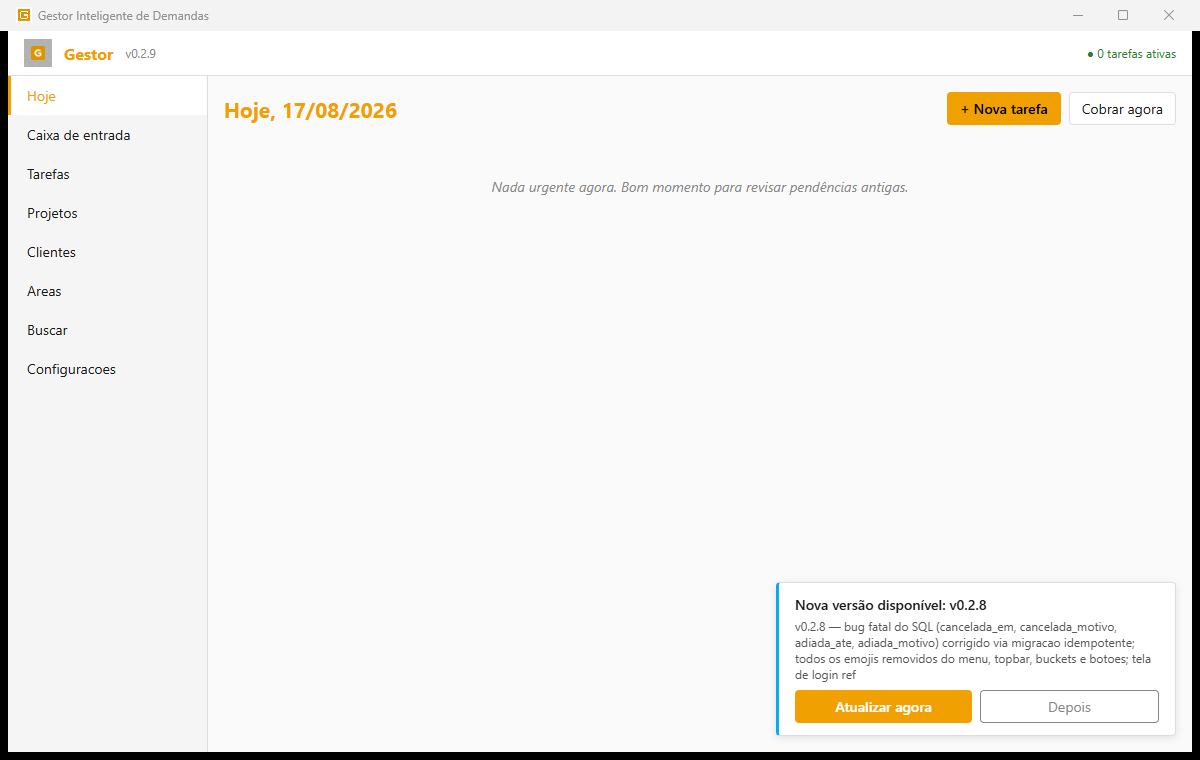
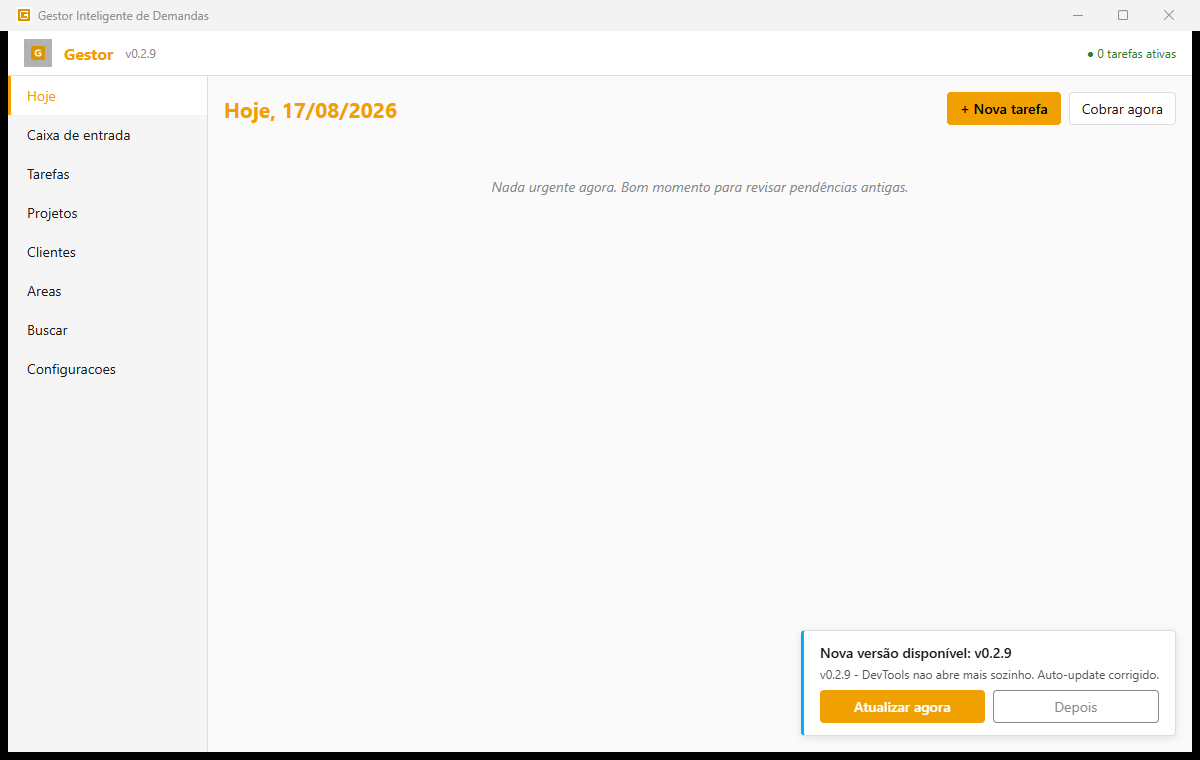
v0.2.9: auto-update via checkForUpdates + applicationId no manifest

Changed region(s): [[0.6475, 0.7868, 0.9558, 0.9684]]

diff --git a/src/js/app.js b/src/js/app.js
@@ -135,6 +135,71 @@ async function bootstrap() {
   document.querySelectorAll('.brand-sub').forEach(el => { el.textContent = 'v' + versao; });
   window.__appVersion = versao;
 
+  // 2.5. FIX v0.2.9: auto-atualiza neutralino.config.json no disco se a versao do .neu for maior
+  // que a versao do disco. O auto-update do Neutralino NAO atualiza o config (so o .neu), entao
+  // sem isso o cliente fica preso com o config antigo. Faz com timeout pq as chamadas
+  // Neutralino.filesystem penduram por causa do bug do init().
+  if (NO_APP && window.Neutralino?.filesystem && versao) {
+    try {
+      const discoPath = (window.__appData ? window.__appData + '\\GestorInteligenteDeDemandas\\neutralino.config.json' : null);
+      let discoVersao = null;
+      if (discoPath) {
+        try {
+          const r = await Promise.race([
+            window.Neutralino.filesystem.readFile(discoPath),
+            new Promise((_, rej) => setTimeout(() => rej(new Error('timeout')), 2000)),
+          ]);
+          if (r) {
+            const txt = (typeof r === 'object' && r.data) ? r.data : (typeof r === 'string' ? r : '');
+            if (txt) {
+              const cfg = JSON.parse(txt);
+              discoVersao = cfg?.version || null;
+            }
+          }
+        } catch (_) {}
+      }
+      D('[app] config disco:', discoVersao, 'config .neu:', versao);
+      if (discoVersao && compararVersao(versao, discoVersao) > 0) {
+        D('[app] config do disco esta atrasado, atualizando...');
+        // Busca o config novo do .neu
+        try {
+          const r = await Promise.race([
+            fetch('/neutralino.config.json', { cache: 'no-store' }),
+            new Promise((_, rej) => setTimeout(() => rej(new Error('timeout')), 2000)),
+          ]);
+          if (r.ok) {
+            const novoCfg = await r.text();
+            // Escreve no disco (com timeout, com backup)
+            if (discoPath) {
+              try {
+                const backupPath = discoPath + '.bak';
+                await Promise.race([
+                  window.Neutralino.filesystem.writeFile(backupPath, novoCfg),
+                  new Promise((_, rej) => setTimeout(() => rej(new Error('timeout')), 3000)),
+                ]).catch(() => {});
+                await Promise.race([
+                  window.Neutralino.filesystem.writeFile(discoPath, novoCfg),
+                  new Promise((_, rej) => setTimeout(() => rej(new Error('timeout')), 3000)),
+                ]);
+                D('[app] config do disco atualizado pra v' + versao);
+                toast({ tipo: 'sucesso', titulo: 'Atualizacao', corpo: 'Configuracao atualizada. O app vai reiniciar.' });
+                setTimeout(() => {
+                  try { window.Neutralino?.app?.exit?.(); } catch (_) {}
+                  setTimeout(() => { try { window.Neutralino?.app?.restartProcess?.(); } catch (_) {} }, 500);
+                }, 1500);
+                return; // nao continua o bootstrap
+              } catch (e) {
+                D('[app] falhou ao gravar config no disco:', e.message);
+              }
+            }
+          }
+        } catch (_) {}
+      }
+    } catch (e) {
+      D('[app] erro na auto-att do config:', e.message);
+    }
+  }
+
   // 3. Tenta restaurar sessão (com timeout: o WebSocket pode nao estar pronto ainda)
   // Primeiro: checa sessao gravada em localStorage ("Lembrar senha").
   // FIX v0.2.8: mesmo que tenha token no localStorage, valida via sessao:atual
@@ -391,20 +456,55 @@ export async function verificarAtualizacao({ silencioso = true } = {}) {
 export async function aplicarAtualizacao(info) {
   if (!info || !info.resourcesURL) return false;
   try {
-    // 1. Fala pro Neutralino trocar a URL de atualizacao
-    if (window.Neutralino?.updater?.setUpdateUrl) {
-      await withTimeout(window.Neutralino.updater.setUpdateUrl(info.resourcesURL), 2000, 'setUpdateUrl');
+    // FIX v0.2.9: usa o updater oficial do Neutralino via checkForUpdates, que
+    // valida o applicationId e seta a variavel interna R do updater. Sem isso,
+    // o install() falha com "No update manifest loaded".
+    if (window.Neutralino?.updater?.checkForUpdates && window.NEUTRALINO_GLOBALS) {
+      try {
+        const appId = window.NEUTRALINO_GLOBALS?.neutralinoConfig?.applicationId;
+        if (appId) {
+          // O checkForUpdates le o manifest do UPDATE_URL global; o manifest tem
+          // que bater com o appId. A gente ja validou antes no verificarAtualizacao.
+          await withTimeout(
+            window.Neutralino.updater.checkForUpdates('https://mlopesdesign.github.io/gestor-inteligente-de-demandas/update.json'),
+            4000, 'updater.checkForUpdates'
+          );
+          if (window.Neutralino?.updater?.install) {
+            const r = await withTimeout(window.Neutralino.updater.install(), 10000, 'updater.install');
+            if (r && r.success !== false) {
+              toast({ tipo: 'sucesso', titulo: 'Atualização', corpo: 'Baixando... vai reiniciar.' });
+              setTimeout(() => window.Neutralino?.app?.exit?.(), 2500);
+              return true;
+            }
+          }
+        }
+      } catch (_) { /* cai no fallback */ }
     }
-    // 2. Tenta usar o updater nativo do Neutralino
-    if (window.Neutralino?.updater?.install) {
-      const r = await withTimeout(window.Neutralino.updater.install(), 3000, 'updater.install');
-      if (r && r.success !== false) {
-        toast({ tipo: 'sucesso', titulo: 'Atualização', corpo: 'Baixando... vai reiniciar.' });
-        setTimeout(() => window.Neutralino?.app?.exit?.(), 2000);
-        return true;
-      }
+    // Fallback: baixa o .neu direto via fetch e grava no disco
+    if (window.Neutralino?.filesystem?.writeFile) {
+      try {
+        const appPath = (window.__appData ? window.__appData + '\\GestorInteligenteDeDemandas' : null);
+        if (appPath) {
+          toast({ tipo: 'info', titulo: 'Atualização', corpo: 'Baixando versão ' + info.version + '...' });
+          const r = await fetch(info.resourcesURL, { cache: 'no-store' });
+          if (r.ok) {
+            const buf = new Uint8Array(await r.arrayBuffer());
+            const b64 = btoa(String.fromCharCode.apply(null, buf));
+            const tmpPath = appPath + '\\resources.neu.tmp';
+            const dstPath = appPath + '\\resources.neu';
+            const oldPath = appPath + '\\resources.neu.old';
+            await withTimeout(window.Neutralino.filesystem.writeFile(tmpPath, b64), 8000, 'writeFile.tmp');
+            try { await withTimeout(window.Neutralino.filesystem.writeFile(oldPath, ''), 2000, 'writeFile.old').catch(() => {}); } catch (_) {}
+            try { await withTimeout(window.Neutralino.filesystem.move(dstPath, oldPath).catch(() => {}), 2000, 'move.old'); } catch (_) {}
+            await withTimeout(window.Neutralino.filesystem.move(tmpPath, dstPath), 3000, 'move.new');
+            toast({ tipo: 'sucesso', titulo: 'Atualização', corpo: 'Pronto! Reiniciando...' });
+            setTimeout(() => window.Neutralino?.app?.exit?.(), 1500);
+            return true;
+          }
+        }
+      } catch (_) { /* cai no proximo fallback */ }
     }
-    // 3. Fallback: abre o link de download no browser
+    // Ultimo fallback: abre o link no browser
     toast({ tipo: 'info', titulo: 'Atualização', corpo: 'Abrindo download da versão ' + info.version });
     if (window.Neutralino?.os?.open) {
       await withTimeout(window.Neutralino.os.open(info.resourcesURL), 2000, 'os.open');
